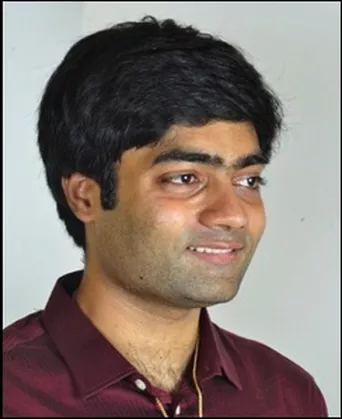
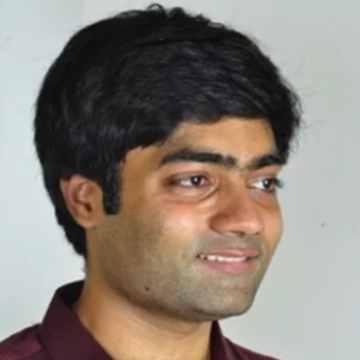
images resized and events is now research

diff --git a/schedule_builder/templates/schedule_builder/header.html b/schedule_builder/templates/schedule_builder/header.html
@@ -69,7 +69,7 @@
                             <ul class="dropdown-menu">
                                 <li><a href="{% url 'project' %}">Projects</a></li>
                                 <li><a href="{% url 'webdev' %}">Web Development</a></li>
-                                <li><a href="{% url 'events' %}">Research and Publication</a></li>
+                                <li><a href="{% url 'research' %}">Research and Publication</a></li>
                                 <li><a href="{% url 'careerex' %}">Career Exploration</a></li>
                             </ul>
                         </li>

diff --git a/schedule_builder/templates/schedule_builder/index.html b/schedule_builder/templates/schedule_builder/index.html
@@ -64,7 +64,7 @@
 						<div class="price-box">
 							<h3>Research and Publication</h3>
 							<p>Research and publication affords students the opportunity to research and produce content on fields of their interest, under the guidance and support of other club members. </p>
-                            <a href="{% url 'events' %}" class="btn btn-select-plan btn-sm">Learn More</a>
+                            <a href="{% url 'research' %}" class="btn btn-select-plan btn-sm">Learn More</a>
 						</div>
 					</div>
 

diff --git a/schedule_builder/urls.py b/schedule_builder/urls.py
@@ -15,6 +15,6 @@ urlpatterns = [
 	url(r'course-map$', views.courseMap, name = "courseMap"),
 	url(r'project$', views.project, name = "project"),
         url(r'webdev$', views.webdev, name="webdev"),
-        url(r'events$', views.events, name="events"),
+        url(r'research$', views.research, name="research"),
         url(r'careerex$', views.careerex, name="careerex")
 ]

diff --git a/schedule_builder/views.py b/schedule_builder/views.py
@@ -59,8 +59,8 @@ def careerex(request):
 	return HttpResponse(t.render(context))
 
 
-def events(request):
-	t = get_template("events.html")
+def research(request):
+	t = get_template("research.html")
 	context = Context({})
 	return HttpResponse(t.render(context))
 def project(request):
